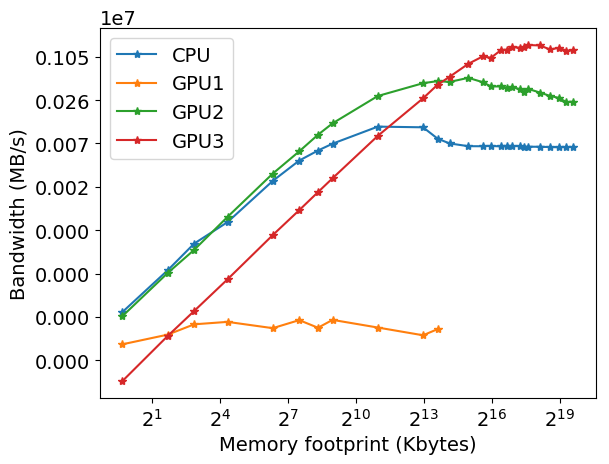
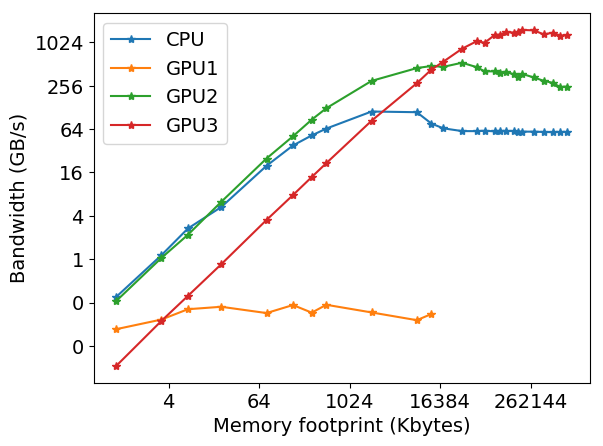
Fixed the jacobi plots

Changed region(s): [[0.0, 0.0291, 0.9851, 0.991], [0.3284, 0.9036, 0.3582, 0.9327]]

diff --git a/poisson/data/vizfun.py b/poisson/data/vizfun.py
@@ -35,6 +35,7 @@ plt.xscale('log',basex=4)
 #plt.yscale('log',basey=2)
 ax = plt.gca().xaxis
 #ax.set_major_formatter(ScalarFormatter())
+ax.set_major_formatter(FormatStrFormatter('%.f'))
 ax = plt.gca().yaxis
 ax.set_major_formatter(ScalarFormatter())
 plt.savefig('MFlops.png', bbox_inches='tight')
@@ -54,6 +55,7 @@ plt.xscale('log',basex=4)
 #plt.yscale('log',basey=2)
 ax = plt.gca().xaxis
 #ax.set_major_formatter(ScalarFormatter())
+ax.set_major_formatter(FormatStrFormatter('%.f'))
 #ax = plt.gca().yaxis
 #ax.set_major_formatter(ScalarFormatter())
 plt.savefig('WallTime.png', bbox_inches='tight')
@@ -61,17 +63,22 @@ plt.close()
                                                              
 
 plt.figure()
+df1["Bandwidth"]=df1["Bandwidth"]/1000
+df2["Bandwidth"]=df2["Bandwidth"]/1000
+df3["Bandwidth"]=df3["Bandwidth"]/1000
+df4["Bandwidth"]=df4["Bandwidth"]/1000
 ax = df1["Bandwidth"].plot(legend=True, style ='*-')
 df2["Bandwidth"].plot(legend=True, style ='*-',ax=ax)
 df3["Bandwidth"].plot(legend=True, style ='*-',ax=ax)
 df4["Bandwidth"].plot(legend=True, style ='*-',ax=ax)
 plt.legend(["CPU","GPU1","GPU2","GPU3"],loc='upper left')
 plt.xlabel('Memory footprint (Kbytes)')
-plt.ylabel('Bandwidth (MB/s)')
+plt.ylabel('Bandwidth (GB/s)')
 #plt.gca().set_ylim(bottom=0)
-plt.xscale('log',basex=2)
+plt.xscale('log',basex=4)
 plt.yscale('log',basey=2)
 ax = plt.gca().xaxis
+ax.set_major_formatter(FormatStrFormatter('%.f'))
 #ax.set_major_formatter(ScalarFormatter())
 ax = plt.gca().yaxis
 ax.set_major_formatter(ScalarFormatter())
@@ -93,10 +100,11 @@ ax = df4["CPU/GPU3"].plot(legend=True, style ='*-')
 plt.legend(loc='upper left')
 plt.xlabel('Memory footprint (kbytes)')
 plt.ylabel('Speedup')
-plt.xscale('log',basex=2)
+plt.xscale('log',basex=4)
 plt.yscale('log',basey=2)
 ax = plt.gca().xaxis
 #ax.set_major_formatter(ScalarFormatter())
+ax.set_major_formatter(FormatStrFormatter('%.f'))
 ax = plt.gca().yaxis
 ax.set_major_formatter(FormatStrFormatter('%.2f'))
 plt.savefig('Speedup.png', bbox_inches='tight')
